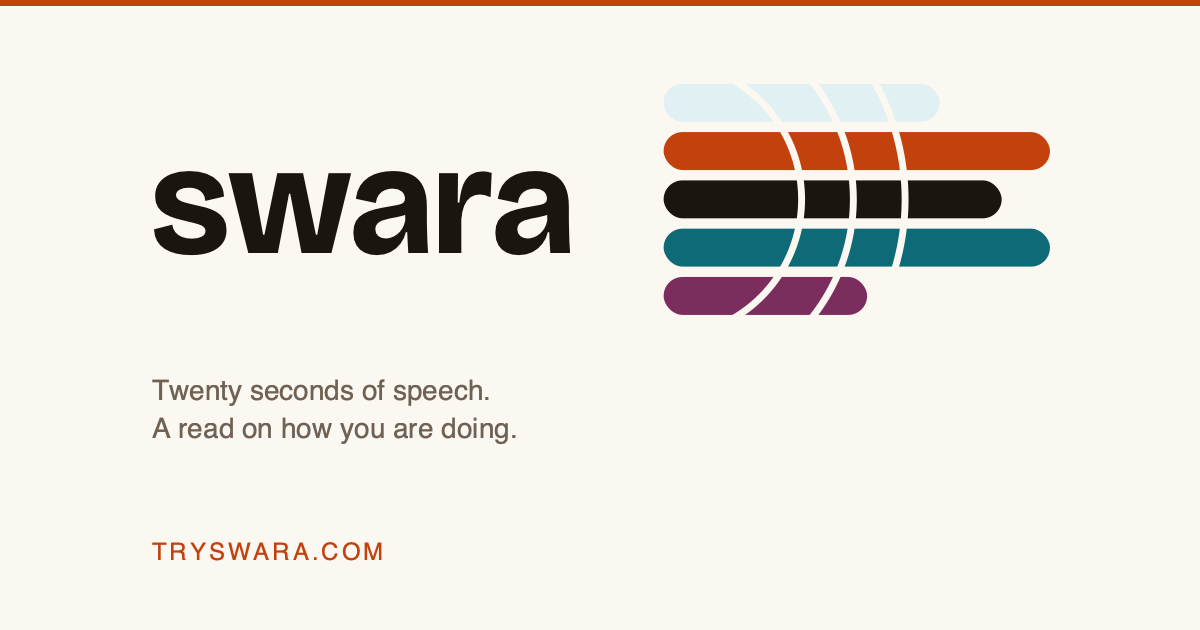
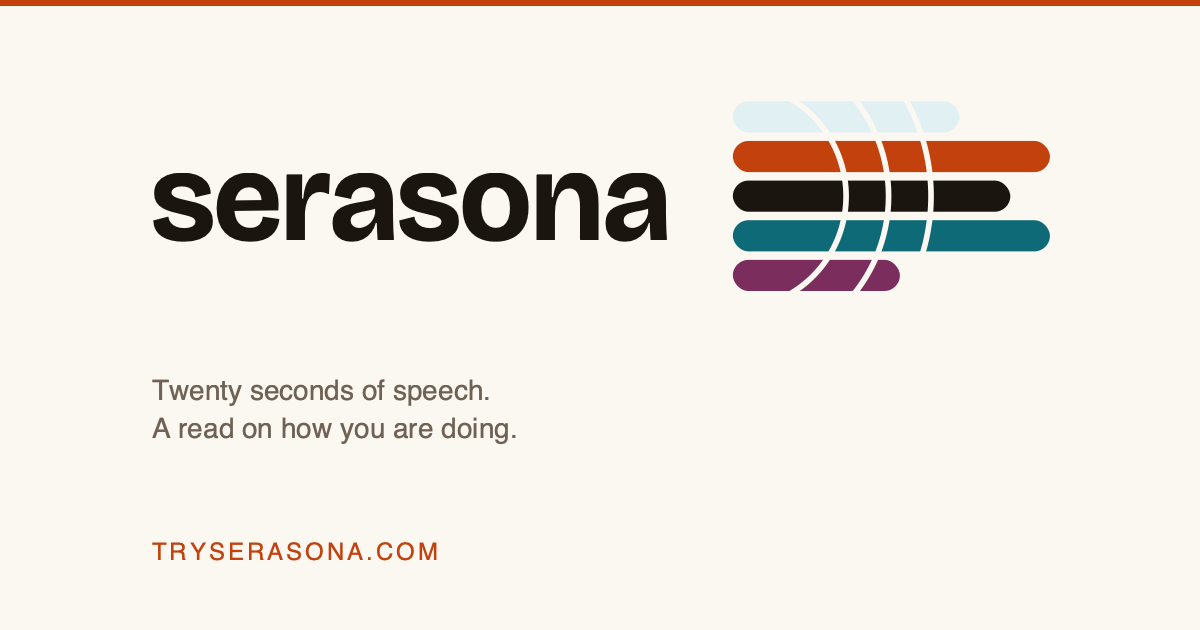
Rename brand from Swara to Serasona
- Swap wordmark/copy across nav, home, triage, language selector, i18n
- Regenerate logo assets from the renamed design system (serasona-*.svg)
- Update CNAME to tryserasona.com, meta tags, vite config, workflow comment
- Rebuild OG image with the new wordmark
- Sync gcp-functions mirror CORS allowlist with the deployed Cloud Functions

Changed region(s): [[0.1233, 0.1206, 0.8942, 0.5127], [0.185, 0.8444, 0.37, 0.9048]]

diff --git a/index.html b/index.html
@@ -3,10 +3,10 @@
   <head>
     <meta charset="UTF-8" />
     <meta name="viewport" content="width=device-width, initial-scale=1.0" />
-    <title>Swara Voice Check-in</title>
-    <meta name="description" content="Twenty seconds of speech gives a read on how you are doing. Voice check-in by Swara." />
-    <meta name="author" content="Swara" />
-    <link rel="canonical" href="https://tryswara.com/" />
+    <title>Serasona Voice Check-in</title>
+    <meta name="description" content="Twenty seconds of speech gives a read on how you are doing. Voice check-in by Serasona." />
+    <meta name="author" content="Serasona" />
+    <link rel="canonical" href="https://tryserasona.com/" />
 
     <!-- Meta Pixel Code -->
     <script>
@@ -35,21 +35,21 @@
       nothing.
     -->
     <meta property="og:type" content="website" />
-    <meta property="og:site_name" content="Swara" />
-    <meta property="og:url" content="https://tryswara.com/" />
-    <meta property="og:title" content="Swara Voice Check-in" />
-    <meta property="og:description" content="Twenty seconds of speech gives a read on how you are doing. Voice check-in by Swara." />
-    <meta property="og:image" content="https://tryswara.com/og-image.png" />
+    <meta property="og:site_name" content="Serasona" />
+    <meta property="og:url" content="https://tryserasona.com/" />
+    <meta property="og:title" content="Serasona Voice Check-in" />
+    <meta property="og:description" content="Twenty seconds of speech gives a read on how you are doing. Voice check-in by Serasona." />
+    <meta property="og:image" content="https://tryserasona.com/og-image.png" />
     <meta property="og:image:width" content="1200" />
     <meta property="og:image:height" content="630" />
-    <meta property="og:image:alt" content="Swara Voice Check-in" />
+    <meta property="og:image:alt" content="Serasona Voice Check-in" />
 
     <meta name="twitter:card" content="summary_large_image" />
-    <meta name="twitter:title" content="Swara Voice Check-in" />
-    <meta name="twitter:description" content="Twenty seconds of speech gives a read on how you are doing. Voice check-in by Swara." />
-    <meta name="twitter:image" content="https://tryswara.com/og-image.png" />
+    <meta name="twitter:title" content="Serasona Voice Check-in" />
+    <meta name="twitter:description" content="Twenty seconds of speech gives a read on how you are doing. Voice check-in by Serasona." />
+    <meta name="twitter:image" content="https://tryserasona.com/og-image.png" />
 
-    <link rel="icon" type="image/svg+xml" href="/brand/swara-app-icon.svg" />
+    <link rel="icon" type="image/svg+xml" href="/brand/serasona-app-icon.svg" />
   </head>
 
   <body>

diff --git a/src/components/SerasonaHome.tsx b/src/components/SerasonaHome.tsx
@@ -1,7 +1,7 @@
 import { motion } from "framer-motion";
 import { asset } from "@/lib/asset";
 
-interface TrySwaraHomeProps {
+interface SerasonaHomeProps {
   onComplete: () => void;
 }
 
@@ -19,19 +19,19 @@ const WAVEFORM_BARS = Array.from({ length: 48 }, (_, i) => {
   return Math.min(1, h);
 });
 
-export const TrySwaraHome = ({ onComplete }: TrySwaraHomeProps) => {
+export const SerasonaHome = ({ onComplete }: SerasonaHomeProps) => {
   return (
     <div
       className="absolute inset-0 overflow-y-auto"
       style={{ backgroundColor: "#fbf7f1" }}
     >
-      {/* Top nav, matching tryswara.com chrome. The logo is the wordmark
+      {/* Top nav, matching tryserasona.com chrome. The logo is the wordmark
           plus the audio bands, one lockup, never the mark alone. */}
       <div className="sticky top-0 z-20 px-5 pt-4 md:px-10">
         <div className="mx-auto flex max-w-[1100px] items-center px-2 py-3 md:px-4">
           <img
-            src={asset("brand/swara-logo-full.svg")}
-            alt="Swara"
+            src={asset("brand/serasona-logo-full.svg")}
+            alt="Serasona"
             className="h-6 w-auto md:h-8"
           />
         </div>
@@ -104,7 +104,7 @@ export const TrySwaraHome = ({ onComplete }: TrySwaraHomeProps) => {
           onClick={onComplete}
           className="mt-12 rounded-full bg-black px-10 py-5 font-mono text-sm font-medium uppercase tracking-[0.2em] text-[#fbf7f1] transition-colors hover:bg-black/[0.85]"
         >
-          Try Swara
+          Try Serasona
         </motion.button>
 
         {/* Stats row */}
@@ -131,7 +131,7 @@ export const TrySwaraHome = ({ onComplete }: TrySwaraHomeProps) => {
           whileInView={{ opacity: 1 }}
           viewport={{ once: true }}
           transition={{ duration: 0.8 }}
-          src={asset("brand/swara-logo-bands.svg")}
+          src={asset("brand/serasona-logo-bands.svg")}
           alt=""
           aria-hidden="true"
           className="mt-20 h-16 w-auto max-w-full md:h-20"
@@ -141,4 +141,4 @@ export const TrySwaraHome = ({ onComplete }: TrySwaraHomeProps) => {
   );
 };
 
-export default TrySwaraHome;
+export default SerasonaHome;

diff --git a/src/components/AnalysisAnimation.tsx b/src/components/AnalysisAnimation.tsx
@@ -306,7 +306,7 @@ const generateGrid = (count: number, size: number) => {
 
 // Each of the 6 stages gets its own color and its own particle-mark shape,
 // so the graphic reads as 6 distinct moments rather than one repeating loop.
-// These are deliberately dark and saturated: the screen sits on the Swara
+// These are deliberately dark and saturated: the screen sits on the Serasona
 // paper background #fbf7f1, and a mid-tone or bright hue (the old orange and
 // yellow especially) sank into that background instead of reading against it.
 const STAGE_COLORS = ["#c2410c", "#1d5fa8", "#7b2d5e", "#1b1510", "#a94e08", "#0d6a76"];
@@ -333,7 +333,7 @@ function hexToRgb(hex: string): Rgb {
 }
 
 /**
- * The Swara paper background #fbf7f1 is a light surface, so anything above
+ * The Serasona paper background #fbf7f1 is a light surface, so anything above
  * roughly 40% luminance stops reading as ink and starts blending in. The
  * archetype palette is neon by design (#00FF94, #FFB800), which is why the
  * final stage used to wash out. Scale any color down to that ceiling,

diff --git a/src/components/LanguageSelector.tsx b/src/components/LanguageSelector.tsx
@@ -34,9 +34,9 @@ export const LanguageSelector = ({ onComplete }: LanguageSelectorProps) => {
       >
         {/* Chrome Headers */}
         <div className="flex items-center justify-between mb-8">
-          <img src={asset("brand/swara-mark-paper.svg")} alt="Swara" className="h-10 w-auto" />
+          <img src={asset("brand/serasona-mark-paper.svg")} alt="Serasona" className="h-10 w-auto" />
           <span className="font-mono text-xs tracking-[0.25em] uppercase text-[#fbf7f1]/90">
-            SWARA // 2026
+            SERASONA // 2026
           </span>
         </div>
 
@@ -64,7 +64,7 @@ export const LanguageSelector = ({ onComplete }: LanguageSelectorProps) => {
 
         {/* Subtitle */}
         <p className="text-center font-mono text-[10px] text-[#fbf7f1]/40 mt-8 tracking-wider uppercase">
-          Swara · Voice Check-in
+          Serasona · Voice Check-in
         </p>
       </motion.div>
     </div>

diff --git a/src/pages/Index.tsx b/src/pages/Index.tsx
@@ -5,7 +5,7 @@ import { AnalysisAnimation, ArchetypeData } from "@/components/AnalysisAnimation
 import { HealthProfile } from "@/components/HealthProfile";
 import { TriageFlow, TriageData } from "@/components/TriageFlow";
 import { LanguageSelector } from "@/components/LanguageSelector";
-import { TrySwaraHome } from "@/components/TrySwaraHome";
+import { SerasonaHome } from "@/components/SerasonaHome";
 import { NavigationOverlay } from "@/components/NavigationOverlay";
 import { AnalysisFailed } from "@/pages/AnalysisFailed";
 import { useAssessment, HEALTH_FOCUS_TO_PATHWAY } from "@/context/AssessmentContext";
@@ -141,7 +141,7 @@ const Index = () => {
           key="home"
           className="absolute inset-0 animate-screen-in"
         >
-          <TrySwaraHome onComplete={handleHomeComplete} />
+          <SerasonaHome onComplete={handleHomeComplete} />
         </div>
       )}
 

diff --git a/gcp-functions/analyze-audio/index.js b/gcp-functions/analyze-audio/index.js
@@ -47,6 +47,7 @@ function getCorsOrigin(requestOrigin) {
   if (requestOrigin.endsWith(".amplifierhealth.com") && requestOrigin.startsWith("https://")) return requestOrigin;
   // Swara (tryswara.com) is a separate consumer brand built on this same API.
   if (requestOrigin === "https://tryswara.com" || requestOrigin === "https://www.tryswara.com") return requestOrigin;
+  if (requestOrigin === "https://tryserasona.com" || requestOrigin === "https://www.tryserasona.com") return requestOrigin;
   // GitHub Pages host the app is served from while try.amplifierhealth.com DNS
   // is pending. Exact origin, not a wildcard — *.github.io is every GitHub user.
   if (requestOrigin === "https://bdo811.github.io") return requestOrigin;

diff --git a/src/lib/i18n.ts b/src/lib/i18n.ts
@@ -1,5 +1,5 @@
 /**
- * Internationalization (i18n) for the Swara Voice Check-in demo
+ * Internationalization (i18n) for the Serasona Voice Check-in demo
  * Supports: English, French, German, Hindi (Devanagari)
  */
 
@@ -31,16 +31,16 @@ const translations = {
 
   // Chrome headers
   amplifierHealth: {
-    en: "SWARA",
-    fr: "SWARA",
-    de: "SWARA",
-    hi: "SWARA",
+    en: "SERASONA",
+    fr: "SERASONA",
+    de: "SERASONA",
+    hi: "SERASONA",
   },
   sonaVersion: {
-    en: "SWARA // 2026",
-    fr: "SWARA // 2026",
-    de: "SWARA // 2026",
-    hi: "SWARA // 2026",
+    en: "SERASONA // 2026",
+    fr: "SERASONA // 2026",
+    de: "SERASONA // 2026",
+    hi: "SERASONA // 2026",
   },
 
   // Triage - Step 1

diff --git a/gcp-functions/notify-lead/index.js b/gcp-functions/notify-lead/index.js
@@ -52,6 +52,7 @@ function getCorsOrigin(requestOrigin) {
   if (requestOrigin.endsWith(".lovable.app") && requestOrigin.startsWith("https://")) return requestOrigin;
   if (requestOrigin.endsWith(".amplifierhealth.com") && requestOrigin.startsWith("https://")) return requestOrigin;
   if (requestOrigin === "https://tryswara.com" || requestOrigin === "https://www.tryswara.com") return requestOrigin;
+  if (requestOrigin === "https://tryserasona.com" || requestOrigin === "https://www.tryserasona.com") return requestOrigin;
   if (requestOrigin === "https://bdo811.github.io") return requestOrigin;
   if (/^https?:\/\/localhost(:\d+)?$/.test(requestOrigin)) return requestOrigin;
   return fallback;

diff --git a/gcp-functions/voice-history/index.js b/gcp-functions/voice-history/index.js
@@ -35,6 +35,7 @@ function getCorsOrigin(requestOrigin) {
   if (requestOrigin.endsWith(".amplifierhealth.com") && requestOrigin.startsWith("https://")) return requestOrigin;
   if (requestOrigin.endsWith(".lovable.app") && requestOrigin.startsWith("https://")) return requestOrigin;
   if (requestOrigin === "https://tryswara.com" || requestOrigin === "https://www.tryswara.com") return requestOrigin;
+  if (requestOrigin === "https://tryserasona.com" || requestOrigin === "https://www.tryserasona.com") return requestOrigin;
   if (requestOrigin === "https://bdo811.github.io") return requestOrigin;
   if (/^https?:\/\/localhost(:\d+)?$/.test(requestOrigin)) return requestOrigin;
   return fallback;

diff --git a/src/components/NavigationOverlay.tsx b/src/components/NavigationOverlay.tsx
@@ -71,13 +71,13 @@ export const NavigationOverlay = ({
             className="font-mono text-[10px] tracking-[0.2em] uppercase text-black/90 hidden md:block"
             style={{ textShadow: "0 1px 4px rgba(219,204,177,0.9), 0 0 8px rgba(219,204,177,0.7)" }}
           >
-            SWARA
+            SERASONA
           </span>
           <span
             className="font-mono text-[10px] tracking-[0.2em] uppercase text-black/90"
             style={{ textShadow: "0 1px 4px rgba(219,204,177,0.9), 0 0 8px rgba(219,204,177,0.7)" }}
           >
-            SWARA // 2026
+            SERASONA // 2026
           </span>
         </div>
       </div>

diff --git a/src/index.css b/src/index.css
@@ -4,11 +4,11 @@
 @tailwind components;
 @tailwind utilities;
 
-/* Swara Design System */
+/* Serasona Design System */
 
 @layer base {
   :root {
-    /* Core palette - Swara warm paper + ember */
+    /* Core palette - Serasona warm paper + ember */
     --background: 36 56% 96%;
     --foreground: 27 26% 8%;
 
@@ -19,7 +19,7 @@
     --popover: 0 0% 100%;
     --popover-foreground: 27 26% 8%;
 
-    /* Ember primary (Swara's one-accent-per-screen color) */
+    /* Ember primary (Serasona's one-accent-per-screen color) */
     --primary: 17 88% 40%;
     --primary-foreground: 30 100% 98%;
 

diff --git a/src/components/TriageFlow.tsx b/src/components/TriageFlow.tsx
@@ -269,9 +269,9 @@ export const TriageFlow = ({ onComplete, onStepChange, externalStep }: TriageFlo
       >
         {/* Chrome Headers */}
         <div className="flex items-center justify-between mb-2">
-          <img src={asset("brand/swara-mark-paper.svg")} alt="Swara" className="h-5 w-auto" />
+          <img src={asset("brand/serasona-mark-paper.svg")} alt="Serasona" className="h-5 w-auto" />
           <span className="font-mono text-xs tracking-[0.2em] uppercase text-[#fbf7f1]/85">
-            SWARA // 2026
+            SERASONA // 2026
           </span>
         </div>
 
